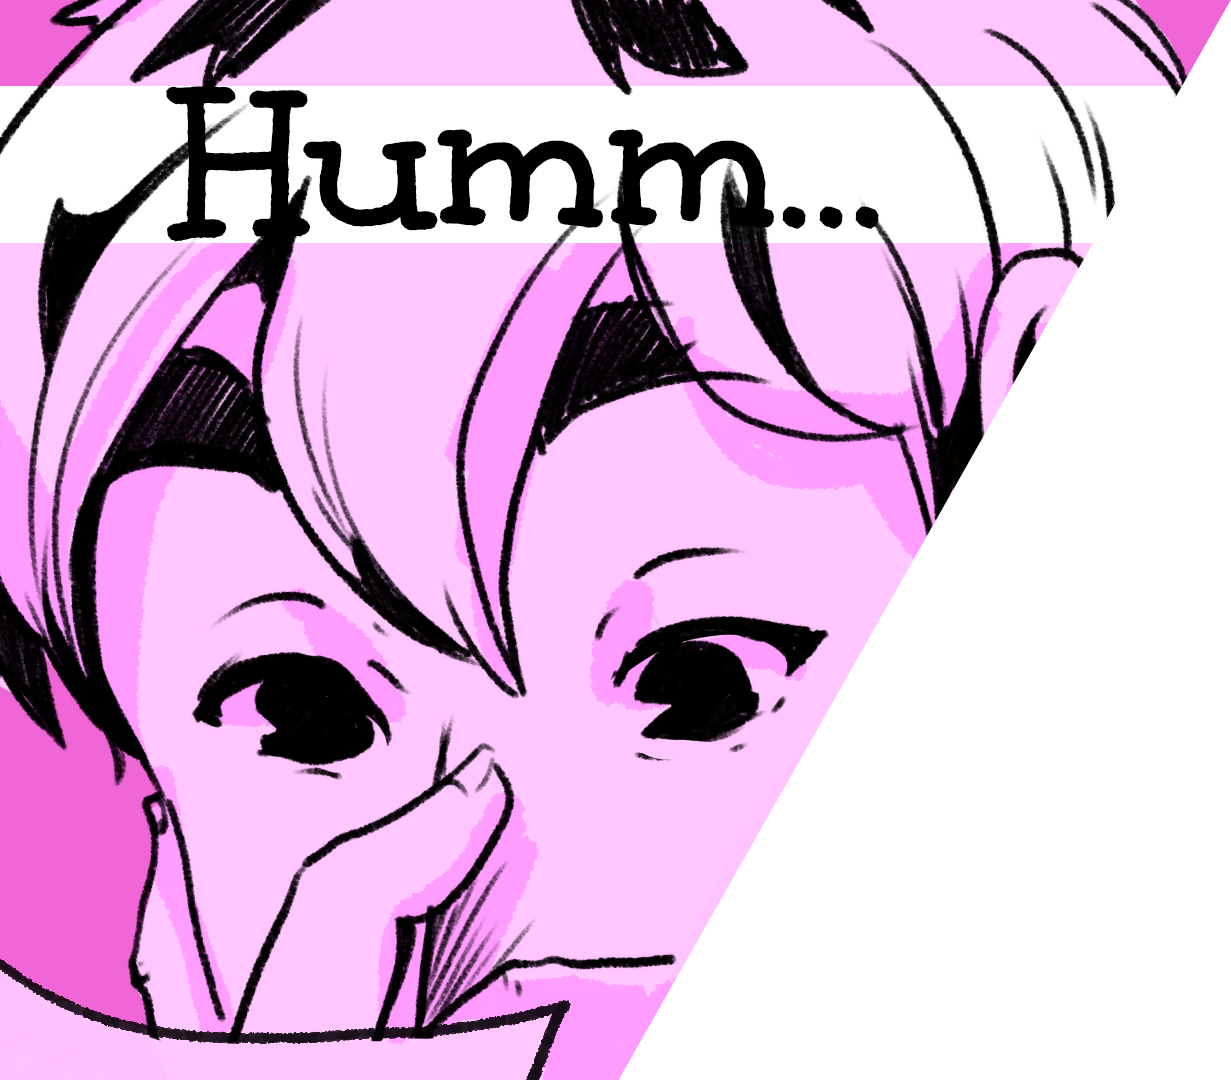
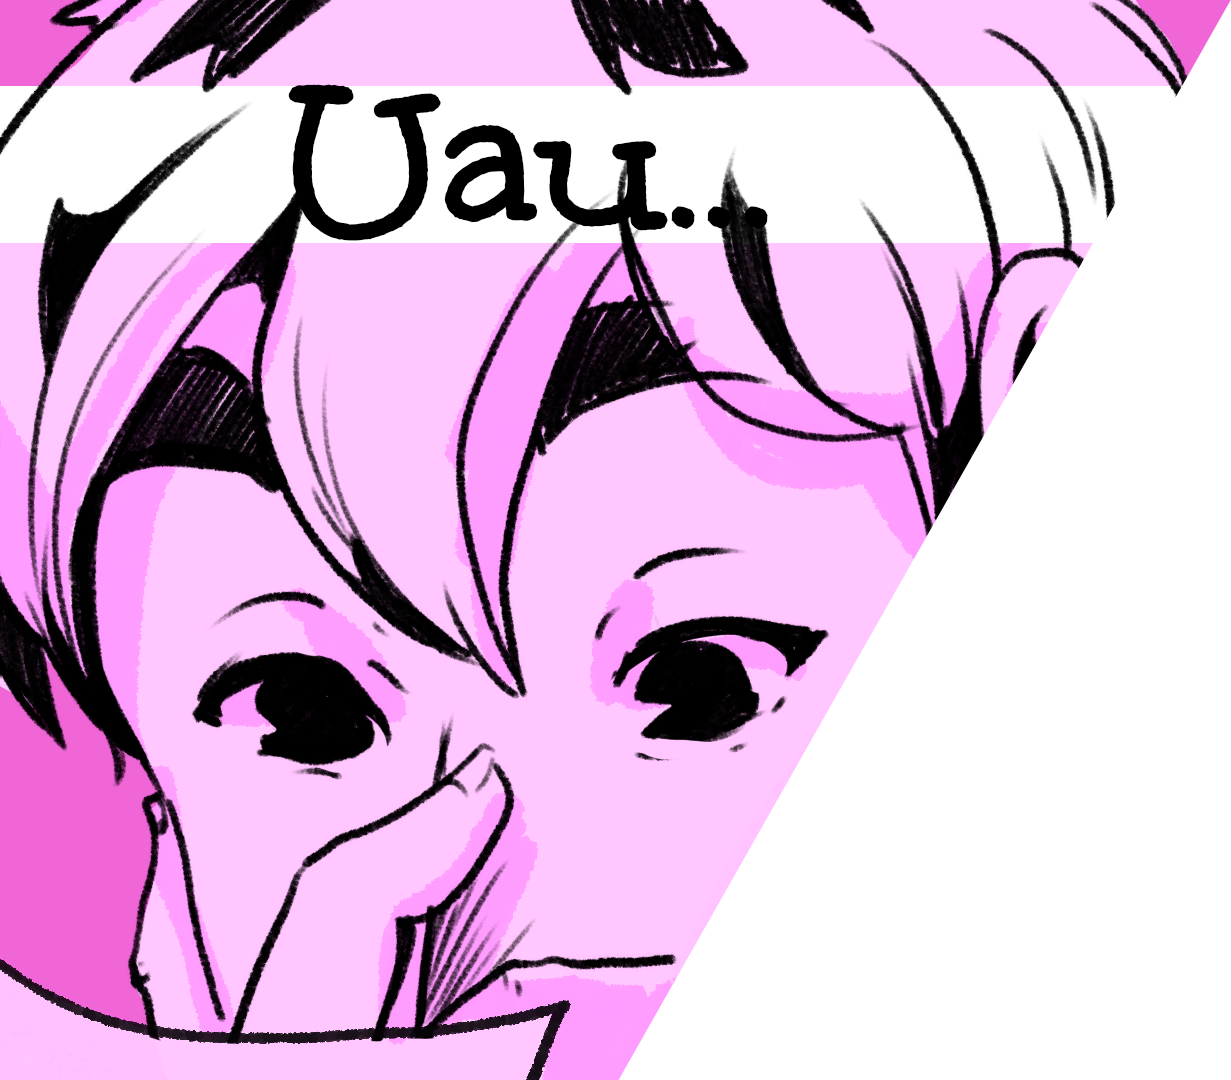
design algumas cenas

Changed region(s): [[0.1235, 0.0611, 0.71, 0.2444]]

diff --git a/src/cenas/OficinaDesign.jsx b/src/cenas/OficinaDesign.jsx
@@ -1,6 +1,7 @@
 import { motion } from "framer-motion";
 import Quadro from "../Quadro";
-import fundo from '../assets/atelie.jpeg'
+import fundo from '../assets/atelie.jpeg';
+import { useEffect, useState } from "react";
 import '../styles/ofc-design.css';
 
 // Importações de imagens da Cena 1
@@ -15,14 +16,17 @@ import CENA2QUADRO1FALA from '../assets/design/CENA2QUADRO1FALA.png';
 import CENA2QUADRO2FALA from '../assets/design/CENA2QUADRO2FALA.png';
 
 // Importações de imagens da Cena 3
+import CENA3 from '../assets/design/CENA-3.png';
 import CENA3FALA1 from '../assets/design/CENA3FALA1.png';
 import CENA3FALA2 from '../assets/design/CENA3FALA2.png';
 import CENA3FUNDO from '../assets/design/CENA3FUNDO.png';
 
 // Importações de imagens da Cena 4
+import CENA4 from '../assets/design/CENA4.png';
 import CENA4QUADRO1 from '../assets/design/CENA4QUADRO1.png';
-import CENA4QUADRO2FALA from '../assets/design/CENA4QUADRO2FALA.png';
-import CENA4QUADRO2FUNDO from '../assets/design/CENA4QUADRO2FUNDO.png';
+import CENA4FALA2 from '../assets/design/CENA4FALA2.png';
+// import CENA4QUADRO2FUNDO from '../assets/design/CENA4QUADRO2F.png';
+// import CENA4QUADRO2FUNDO from '../assets/design/CENA4QUADRO2FUNDO.png';
 
 // Importações de imagens da Cena 5
 import CENA5FALA1 from '../assets/design/CENA5FALA1.png';
@@ -35,9 +39,11 @@ import CENA6FALA2 from '../assets/design/CENA6FALA2.png';
 import CENA6FUNDO from '../assets/design/CENA6FUNDO.png';
 
 // Importações de imagens da Cena 7
+// import CENA7 from '../assets/design/CENA7.png';
+import CENA7 from '../assets/design/CENA7-1.png';
 import CENA7FALA1 from '../assets/design/CENA7FALA1.png';
 import CENA7FALA2 from '../assets/design/CENA7FALA2.png';
-import CENA7FUNDO from '../assets/design/CENA7FALA2.png';
+import CENA7FUNDO from '../assets/design/CENA7FUNDO.png';
 
 // Importações de Cenários Gerais
 import CENARIO from '../assets/design/CENARIO.png';
@@ -52,21 +58,28 @@ const cenaAnimDefault = {
 };
 
 export default function OficinaDesign({ cena, setCena, setPapelAberto, cenaAnimProp }) {
+
+  useEffect(() => {
+  if (cena === "oficina_design_final") {
+    window.scrollTo({ top: 0, behavior: 'instant' });
+  }
+}, [cena]);
+
   return (
     <motion.div {...(cenaAnimProp || cenaAnimDefault)} className="story-container">
 
       {cena === "oficina_design" && (
         <> 
-          <Quadro bgImage={CENA1FUNDO} baloes={[CENA1QUADROMENOR]} balaoStyle={{marginTop: "30%", alignSelf: "flex-start", marginRight: "auto", maxWidth: "300px", height: "300px" }} />
+          <Quadro bgImage={CENA1FUNDO} baloes={[CENA1QUADROMENOR, CENA1FALA2, CENA1FALA1]} balaoStyle={[{marginTop: "15%", alignSelf: "flex-start", maxWidth: "350px", height: "300px" }, {maxWidth: "300px", marginTop:"25%", height: "200px", paddingRight: "200px"}, {marginBottom: "30%", maxWidth: "300px", height: "200px"}]} />
           <Quadro bgImage={CENA2JUNTA} baloes={[CENA2QUADRO1FALA, CENA2QUADRO2FALA]} balaoStyle={{marginLeft: "15%", marginTop:"5%", maxWidth: "400px", height: "250px", gap: "250px" }} />
           <Quadro bgImage={CENA3FUNDO} baloes={[CENA3FALA1, CENA3FALA2]} balaoStyle={[{marginTop:"-15%", maxWidth: "400px", height: "200px", gap: "220px" }, {marginTop: "25%", marginLeft: "20%", height: "200px"}]} />
-          <Quadro bgImage={CENA3FUNDO}>
+          <Quadro bgImage={CENA3}>
             <div className="botoes-container">
               <button className="button-geral" onClick={() => setPapelAberto(true)}>
-                Pegar Papel e Lápis
+                Que legal! Vamos nessa.
               </button>
               <button className="button-geral btn-back" onClick={() => setCena("corredor")}>
-                Voltar
+                Humm... acho que vou olhar outras oficinas antes.
               </button>
             </div>
           </Quadro>
@@ -77,17 +90,22 @@ export default function OficinaDesign({ cena, setCena, setPapelAberto, cenaAnimP
       {/* SEÇÃO: APÓS VENCER O MINI-GAME */}
       {cena === "oficina_design_final" && (
         <>
+          <Quadro bgImage={CENA4} baloes={[CENA4FALA2]} balaoStyle={{marginLeft: "15%", marginTop:"5%", maxWidth: "300px", height: "250px", gap: "250px" }} />
           <Quadro bgImage={CENA5FUNDO} baloes={[CENA5FALA1, CENA5FALA2]} balaoStyle={[{alignSelf: "flex-start", marginLeft: "5%", maxWidth: "300px", height: "300px" }, {marginTop: "30%", marginRight: "10%", maxWidth: "300px", height: "300px" }]} />
           <Quadro bgImage={CENA6FUNDO} baloes={[CENA6FALA1, CENA6FALA2]} balaoStyle={[{alignSelf: "flex-start", maxWidth: "200px", paddingRight: "250px", height: "200px" }, {marginTop: "25%", marginRight: "5%", maxWidth: "300px", height: "300px" }]} />
-          <Quadro bgImage={CENA7FUNDO} baloes={[CENA7FALA1, CENA7FALA2]} balaoStyle={{marginTop: "30%", alignSelf: "flex-start", marginRight: "auto", maxWidth: "300px", height: "300px" }} />
+          <Quadro bgImage={CENA7FUNDO} baloes={[CENA7FALA1, CENA7FALA2]} balaoStyle={{maxWidth: "300px", height: "300px", gap: "250px" }} />
+            <Quadro bgImage={CENA7}>
+            <div className="overlay-final"></div>
+
             <div className="decisao-botoes">
               <button className="button-geral" onClick={() => setCena("final_ru_luan")}>
                 Bora pro RU!
               </button>
               <button className="button-geral" onClick={() => setCena("corredor")}>
-                Ainda quero ver mais labs
+                Obrigada pelo convite, mas ainda quero ver mais labs.
               </button>
-            </div>
+            </div> 
+            </Quadro>
         </>
       )}
 

diff --git a/src/minijogos/MiniGameDesign.jsx b/src/minijogos/MiniGameDesign.jsx
@@ -2,8 +2,9 @@ import React, { useState, useEffect } from "react";
 import { Reorder, motion, AnimatePresence } from "framer-motion";
 import '../styles/ofc-design.css';
 
-// Exemplo de importação do balão
-import BALAO_DICA from '../assets/design/CENA4QUADRO1.png';
+import OFICINAFALA1 from '../assets/design/OFICINA_FALA1.png'
+import OFICINAFALA2 from '../assets/design/OFICINA_FALA2.png'
+import OFICINAFALA3 from '../assets/design/OFICINA_FALA3.png'
 
 export default function MiniGameDesign({ onWin }) {
   const ordemCorreta = ["title", "desc", "price", "icon"];
@@ -24,7 +25,7 @@ export default function MiniGameDesign({ onWin }) {
   useEffect(() => {
     const timer = setTimeout(() => {
       setMostrarBalao(false);
-    }, 5000); 
+    }, 8000); 
 
     return () => clearTimeout(timer); 
   }, []);
@@ -39,7 +40,7 @@ export default function MiniGameDesign({ onWin }) {
 
     if (acertos === ordemCorreta.length && !ganhou) {
       setGanhou(true);
-      setTimeout(onWin, 1500);
+      setTimeout(onWin, 2000);
     }
   }, [itens]);
 
@@ -57,7 +58,7 @@ export default function MiniGameDesign({ onWin }) {
               transition={{ delay: 0.2 }}
               className="balao-fora balao-top-right"
             >
-              <img src={BALAO_DICA} alt="Dica" style={{ width: "200px" }} />
+              <img src={OFICINAFALA1} alt="Dica" style={{ width: "300px" }} />
             </motion.div>
 
             {/* BALÃO 2 */}
@@ -68,7 +69,7 @@ export default function MiniGameDesign({ onWin }) {
               transition={{ delay: 0.6 }}
               className="balao-fora balao-bottom-left"
             >
-              <img src={BALAO_DICA} alt="Dica" style={{ width: "200px" }} />
+              <img src={OFICINAFALA3} alt="Dica" style={{ width: "300px" }} />
             </motion.div>
 
             {/* BALÃO 3 */}
@@ -79,16 +80,13 @@ export default function MiniGameDesign({ onWin }) {
               transition={{ delay: 1.0 }}
               className="balao-fora balao-top-left"
             >
-              <img src={BALAO_DICA} alt="Dica" style={{ width: "200px" }} />
+              <img src={OFICINAFALA2} alt="Dica" style={{ width: "300px" }} />
             </motion.div>
           </>
         )}
       </AnimatePresence>
 
       <div className="header-game">
-        <p className="instrucao-luan">
-          Luan: "A hierarquia visual guia o olhar. Ordene do mais importante para o menos importante!"
-        </p>
         
         <div className="barra-progresso-container">
           <motion.div 

diff --git a/src/App.css b/src/App.css
@@ -1,3 +1,5 @@
+@import url('https://fonts.googleapis.com/css2?family=Indie+Flower&display=swap');
+
 * {
   margin: 0;
   padding: 0;
@@ -15,18 +17,30 @@ body {
 .button-geral {
   margin: 20px;
   padding: 12px 25px;
-  background: #eda200;
-  border: none;
-  color: white;
+  font-family: 'Comic Sans MS', 'Indie Flower', 'Chalkboard SE', cursive; 
+  background: #ffffff;
+  color: #000000;
   cursor: pointer;
-  border-radius: 6px;
-  transition: 0.3s;
+  
+  border: 4px solid #0a0a0a;
+  
+  border-radius: 255px 15px 225px 15px/15px 225px 15px 255px;
+  
+  transition: transform 0.2s cubic-bezier(0.175, 0.885, 0.32, 1.275);
 }
 
 .button-geral:hover {
-  background: #c07900;
+  background: #ffffff; 
+  animation: pulinho 0.4s ease-in-out;
   transform: scale(1.05);
-} 
+}
+
+/* Animação do pulinho */
+@keyframes pulinho {
+  0% { transform: scale(1.05) translateY(0); }
+  50% { transform: scale(1.1) translateY(-8px); }
+  100% { transform: scale(1.05) translateY(0); }
+}
 
 /* BOTÃO PRINCIPAL */
 .btn-navegar {

diff --git a/src/styles/ofc-design.css b/src/styles/ofc-design.css
@@ -1,12 +1,14 @@
+
+
 .folha-prototipo {
   background: #fdfdfd;
-  background-image: radial-gradient(#e5e5e5 1px, transparent 1px); /* Pontilhado de caderno */
+  background-image: radial-gradient(#e5e5e5 1px, transparent 1px); 
   background-size: 20px 20px;
   padding: 30px;
   border-radius: 4px;
   box-shadow: 5px 5px 15px rgba(0,0,0,0.1);
   min-height: 400px;
-  font-family: 'Comic Sans MS', 'Indie Flower', cursive; /* Fonte que parece escrita à mão */
+  font-family: 'Comic Sans MS', 'Indie Flower', cursive; 
   color: #2d3436;
 }
 
@@ -80,6 +82,7 @@
 .item-content {
   display: flex;
   align-items: center;
+  text-align: left;
   width: 100%;
 }
 
@@ -124,3 +127,7 @@
   top: -60px;
   left: -80px; /* Joga para cima e esquerda */
 }
+
+
+
+

diff --git a/src/cenas/OficinaJogos.jsx b/src/cenas/OficinaJogos.jsx
@@ -20,8 +20,8 @@
             <Quadro bgImage={fundo}><h2>IARA: "Nada mal... você manda bem."</h2></Quadro>
             <Quadro bgImage={fundo}>
               <div className="decisao-botoes">
-                  <button className="button-geral" onClick={() => setCena("final_ru")}>Ir com Iara</button>
-                  <button className="button-geral" onClick={() => setCena("corredor")}>Explorar mais</button>
+                  <button className="button-geral" onClick={() => setCena("final_ru")}>Bora pro RU!</button>
+                  <button className="button-geral" onClick={() => setCena("corredor")}>Obrigada pelo convite, mas ainda quero ver mais labs.</button>
               </div>
             </Quadro>
           </>

diff --git a/src/cenas/OficinaAudiovisual.jsx b/src/cenas/OficinaAudiovisual.jsx
@@ -53,14 +53,14 @@ export default function OficinaAudiovisual({ cena, setCena, setComputadorAberto,
                 className="button-geral"
                 onClick={() => setCena("final_ru")}
               >
-                Ir com Theo
+                Bora pro RU!
               </button>
 
               <button 
                 className="button-geral"
                 onClick={() => setCena("corredor")}
               >
-                Explorar mais
+                 Obrigada pelo convite, mas ainda quero ver mais labs.
               </button>
             </div>
           </Quadro>

diff --git a/src/cenas/OficinaProg.jsx b/src/cenas/OficinaProg.jsx
@@ -52,14 +52,14 @@ export default function OficinaProgramacao({ cena, setCena, setComputadorAberto,
                 className="button-geral"
                 onClick={() => setCena("final_ru")}
               >
-                Ir com Eve
+                Bora pro RU!
               </button>
 
               <button 
                 className="button-geral"
                 onClick={() => setCena("corredor")}
               >
-                Explorar mais
+                 Obrigada pelo convite, mas ainda quero ver mais labs.
               </button>
             </div>
           </Quadro>
